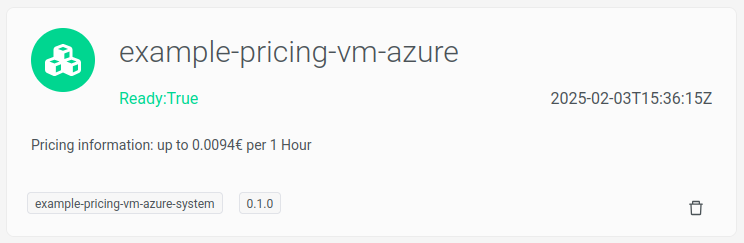
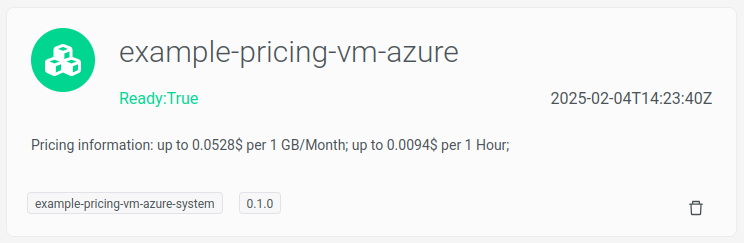
docs: improved example

Changed region(s): [[0.371, 0.5473, 0.6801, 0.6337], [0.8347, 0.3745, 0.9583, 0.4321], [0.2782, 0.5761, 0.3401, 0.6337]]

diff --git a/readme.md b/readme.md
@@ -23,6 +23,8 @@ This composition definition uses the components from the following architecture:
 The following figure shows an example of the pricing information retrieved from the Azure Pricing API placed inside the widget card:
 ![FinOps Data Presentation Example](_diagrams/example.png)
 
+<sub>Note: the `1 GB/Month` expenditure has been added thorugh the API as an example of multiple values and will not show when installing the composition.</sub>
+
 ## Installation
 Install the cert-manager for the Azure operator:
 ```
